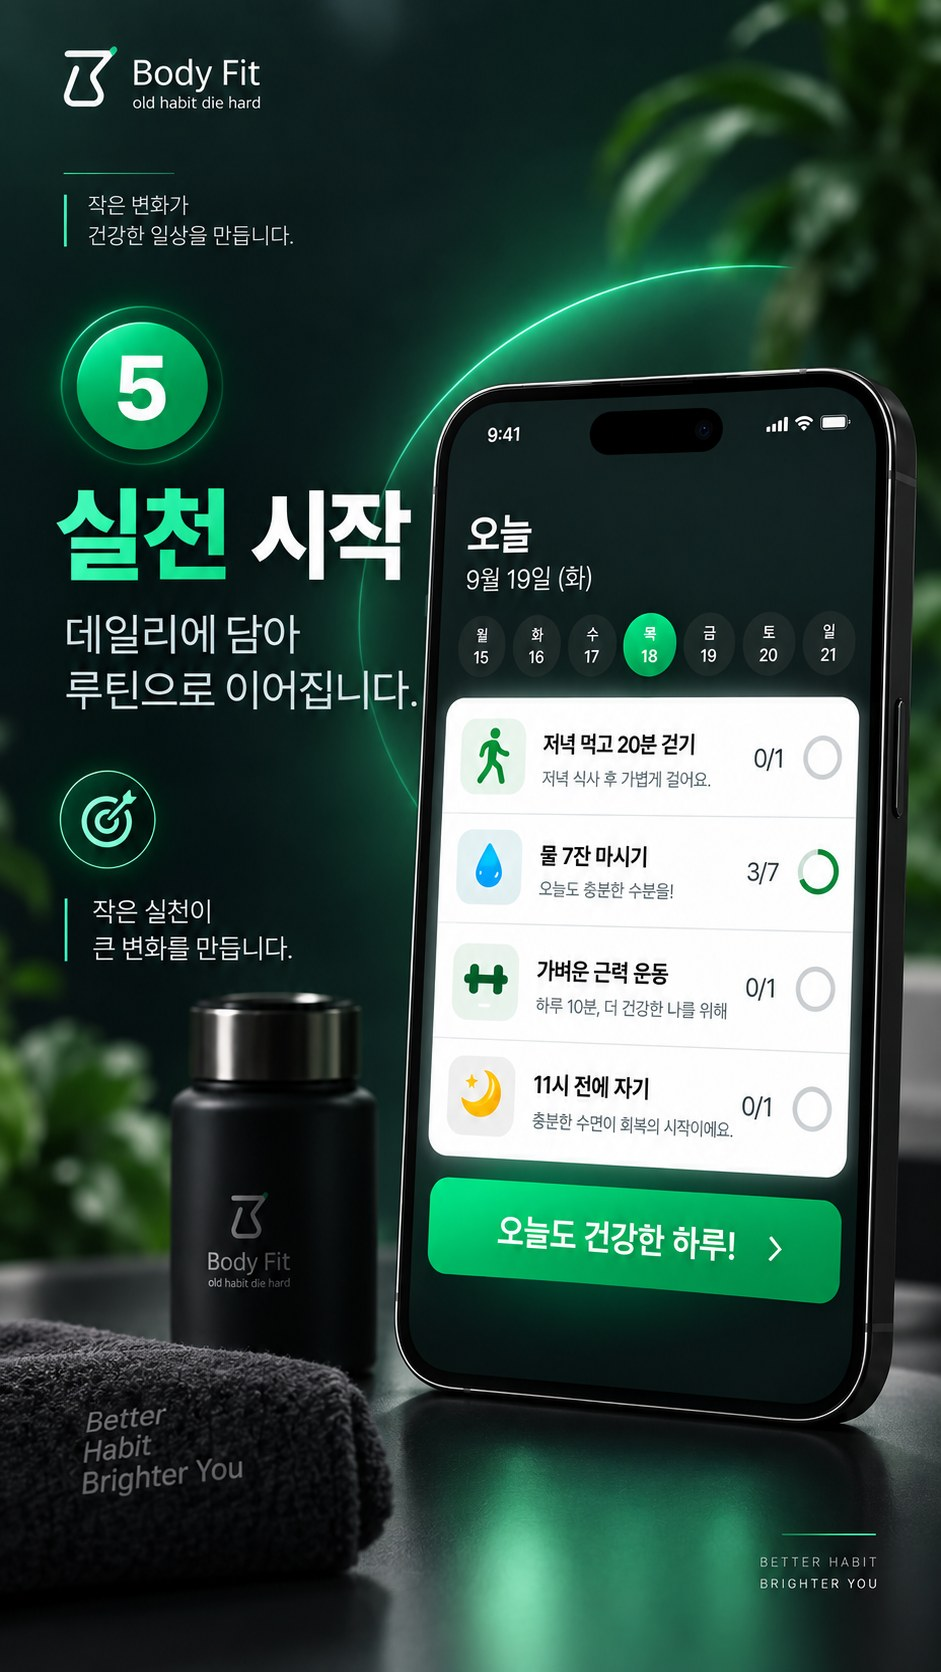
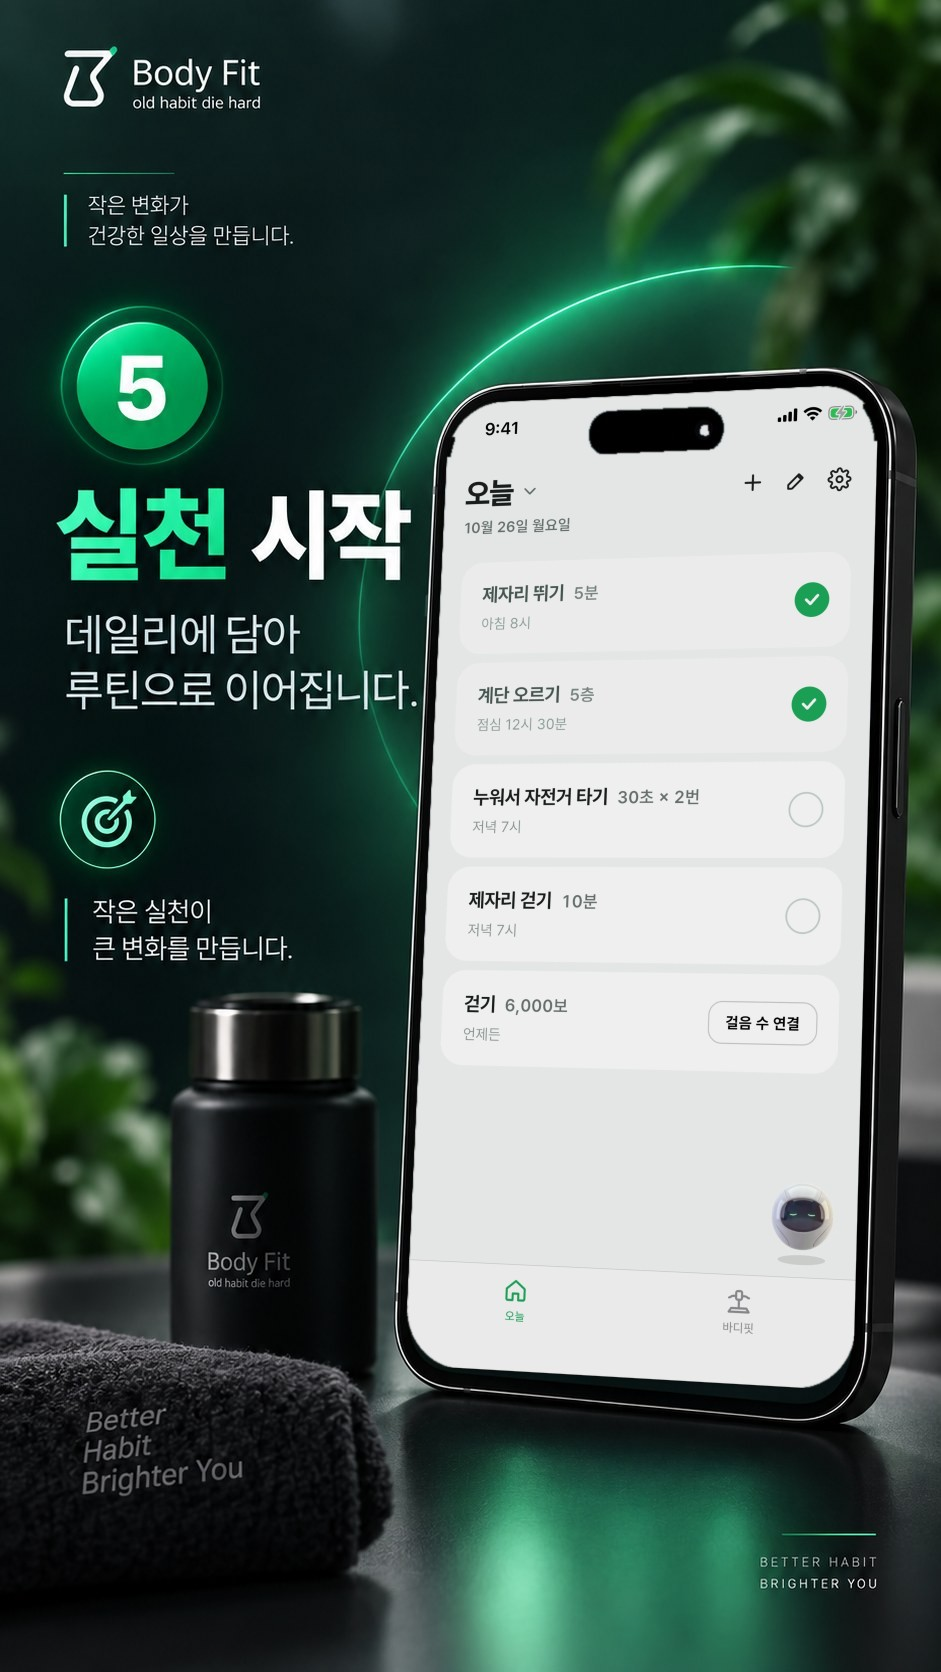
fix(bodyfit): 사용법 포스터 3~6 폰 화면을 지금 앱 화면으로 교체
- 지어낸 어두운 앱 화면이 지금 앱과 다르고 없는 기능(물 마시기 · 수면)을 보여 줌
- 포스터 글자 · 배경 · 폰 · 노치는 원본 유지, 화면만 원근 맞춰 합성
- 바뀐 그림이 바로 보이도록 그림 주소에 버전 표시 추가

Changed region(s): [[0.4315, 0.2177, 0.9554, 0.8397]]

diff --git a/index.html b/index.html
@@ -515,10 +515,10 @@ window.__resources = {
   var bhtSlides = [
     { src: 'images/bodyfit-howto/1-smartphone-mount.jpg?v=2', label: '스마트폰 거치' },
     { src: 'images/bodyfit-howto/2-step-on.jpg', label: '올라서 준비' },
-    { src: 'images/bodyfit-howto/3-check-record.jpg', label: '기록 확인' },
-    { src: 'images/bodyfit-howto/4-ai-suggestion.jpg', label: 'AI 제안' },
-    { src: 'images/bodyfit-howto/5-start-routine.jpg', label: '실천 시작' },
-    { src: 'images/bodyfit-howto/6-progress-summary.jpg', label: '기록되는 변화' }
+    { src: 'images/bodyfit-howto/3-check-record.jpg?v=2', label: '기록 확인' },
+    { src: 'images/bodyfit-howto/4-ai-suggestion.jpg?v=2', label: 'AI 제안' },
+    { src: 'images/bodyfit-howto/5-start-routine.jpg?v=2', label: '실천 시작' },
+    { src: 'images/bodyfit-howto/6-progress-summary.jpg?v=2', label: '기록되는 변화' }
   ];
   var bhtIndex = 0;
 
